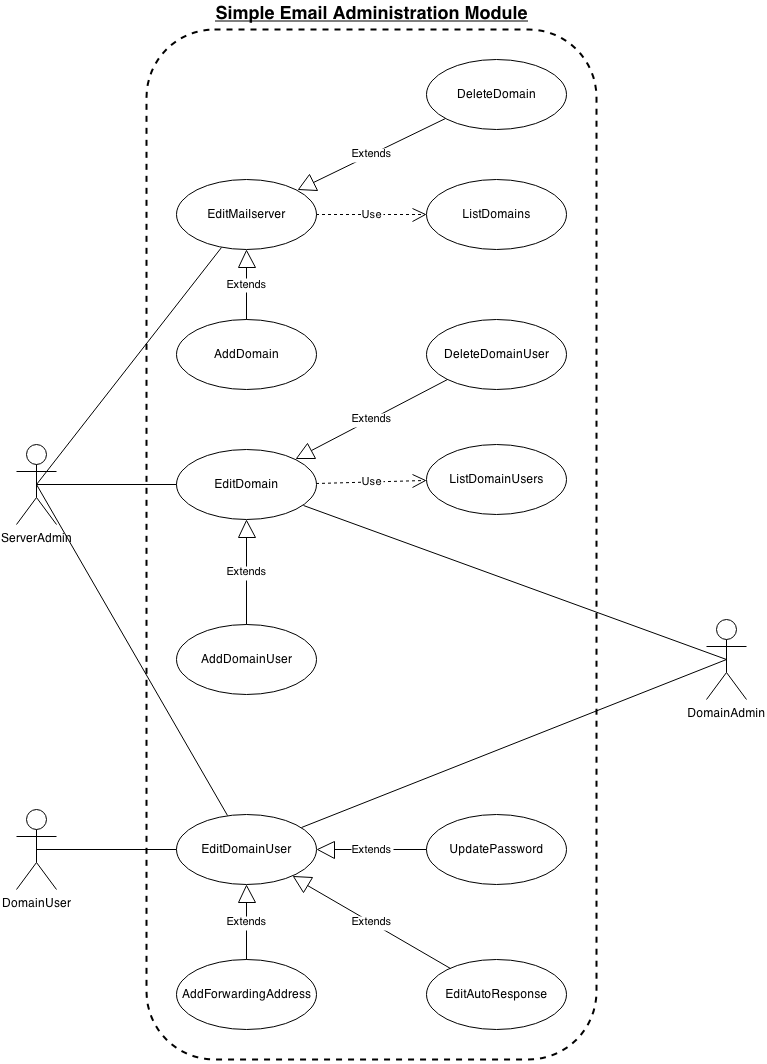
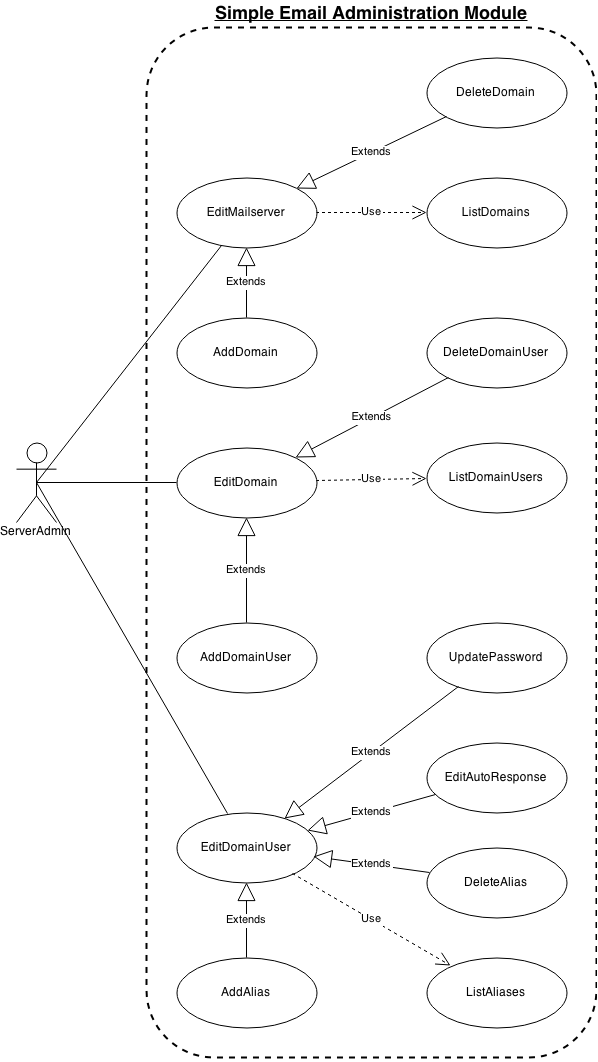
Updated README.md and Use Case Diagrams

diff --git a/README.md b/README.md
@@ -4,11 +4,15 @@ Simple Email Administration Module for Webmin/Virtualmin.
 
 Features
 ========
+* Add & Delete Mailserver Domains
+
+* Add & Delete Mailserver Domain Users 
+
 * Update Passwords for Users
 
-* Add, Edit, & Delete Forwards for Users
+* Add & Delete Aliases (Forwarding Addresses) for Users
 
-* Add, Edit, & Delete Auto-Responders for Users
+* Edit Auto-Responders for Users
 
 Functional Requirements
 =======================
@@ -20,19 +24,31 @@ Functional Requirements
 
 Non-Functional Requirements
 ===========================
-* forms are _submitted via POST_ to the script in which they are written for 
-  sanitation and _redirected via GET_ to the appropriate action handler.
-  - has the added benefit of centralizing the management of CGI variables and
-    thus limiting the scope of their destruction.  
-  - has the consequence of session-variable over-head, but not so terrible
-    since this is not going to undergo frequent usage by every user. 
-
-* _session variables_ used for script-to-script (eg index to select-user) 
-  communication since _there are no POST-redirect capabilities_
-
-* _http variables_ for script-to-self (eg index to index) communication
-  since this will be the primary style of form-submission. 
-  - has the added benefit of keeping sanitized variables separate from 
-    dirty variables.
+* Should be configurable to work with custom Postfix/Dovecot virtual 
+    mailserver configurations 
 
 
+Bugs that need to be fixed
+==========================
+* Should not be able to delete 0 domains
+
+* Deleting 0 domains & Cancel does NOT cause perl execution failure; bug? 
+
+* Should not be able to delete 0 users
+
+* Deleting 0 users & Cancel causes perl execution failure 
+  in seam-lib.pl at line 329
+
+* Deleting domains (0+) & Proceed leads to redirect output 
+
+* Text not showing up on DeleteDomain return 
+
+* Deleting aliases (0+) throws file not found
+    -- in anticipation, should not be able to delete 0 aliases 
+
+
+
+Project Hints
+=============
+* Use Case Diagram is an https://www.draw.io project
+   
